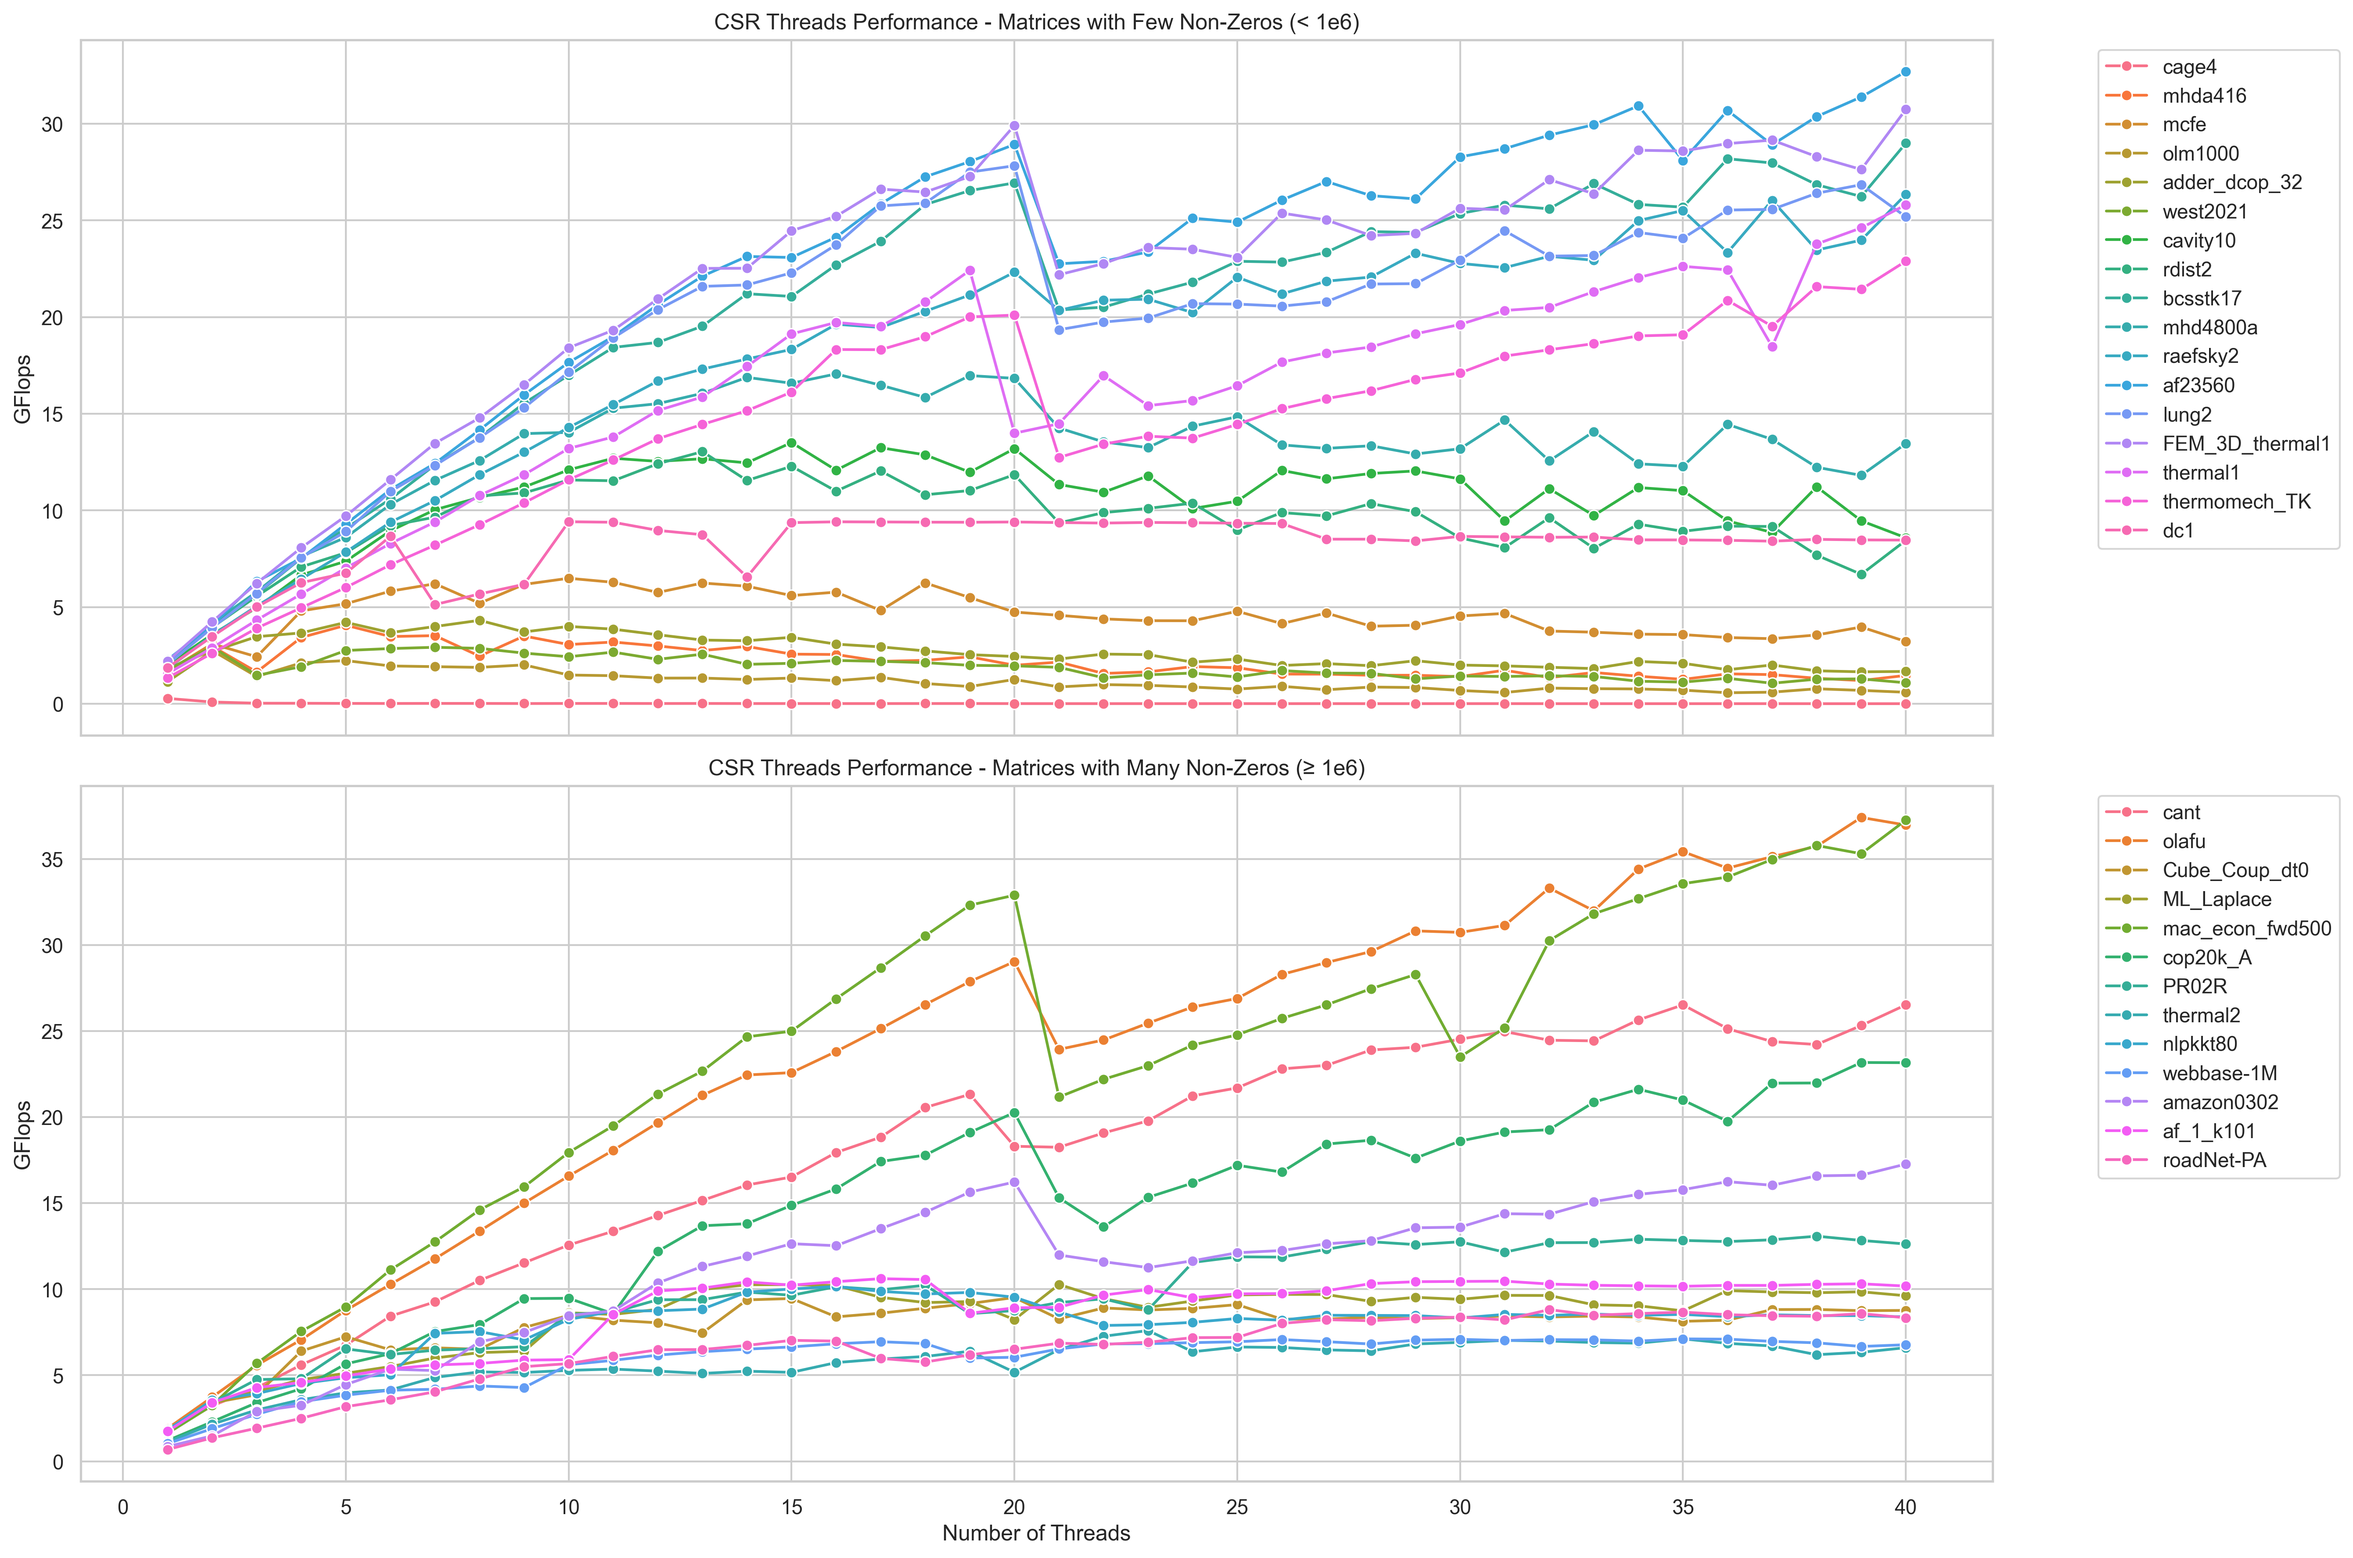
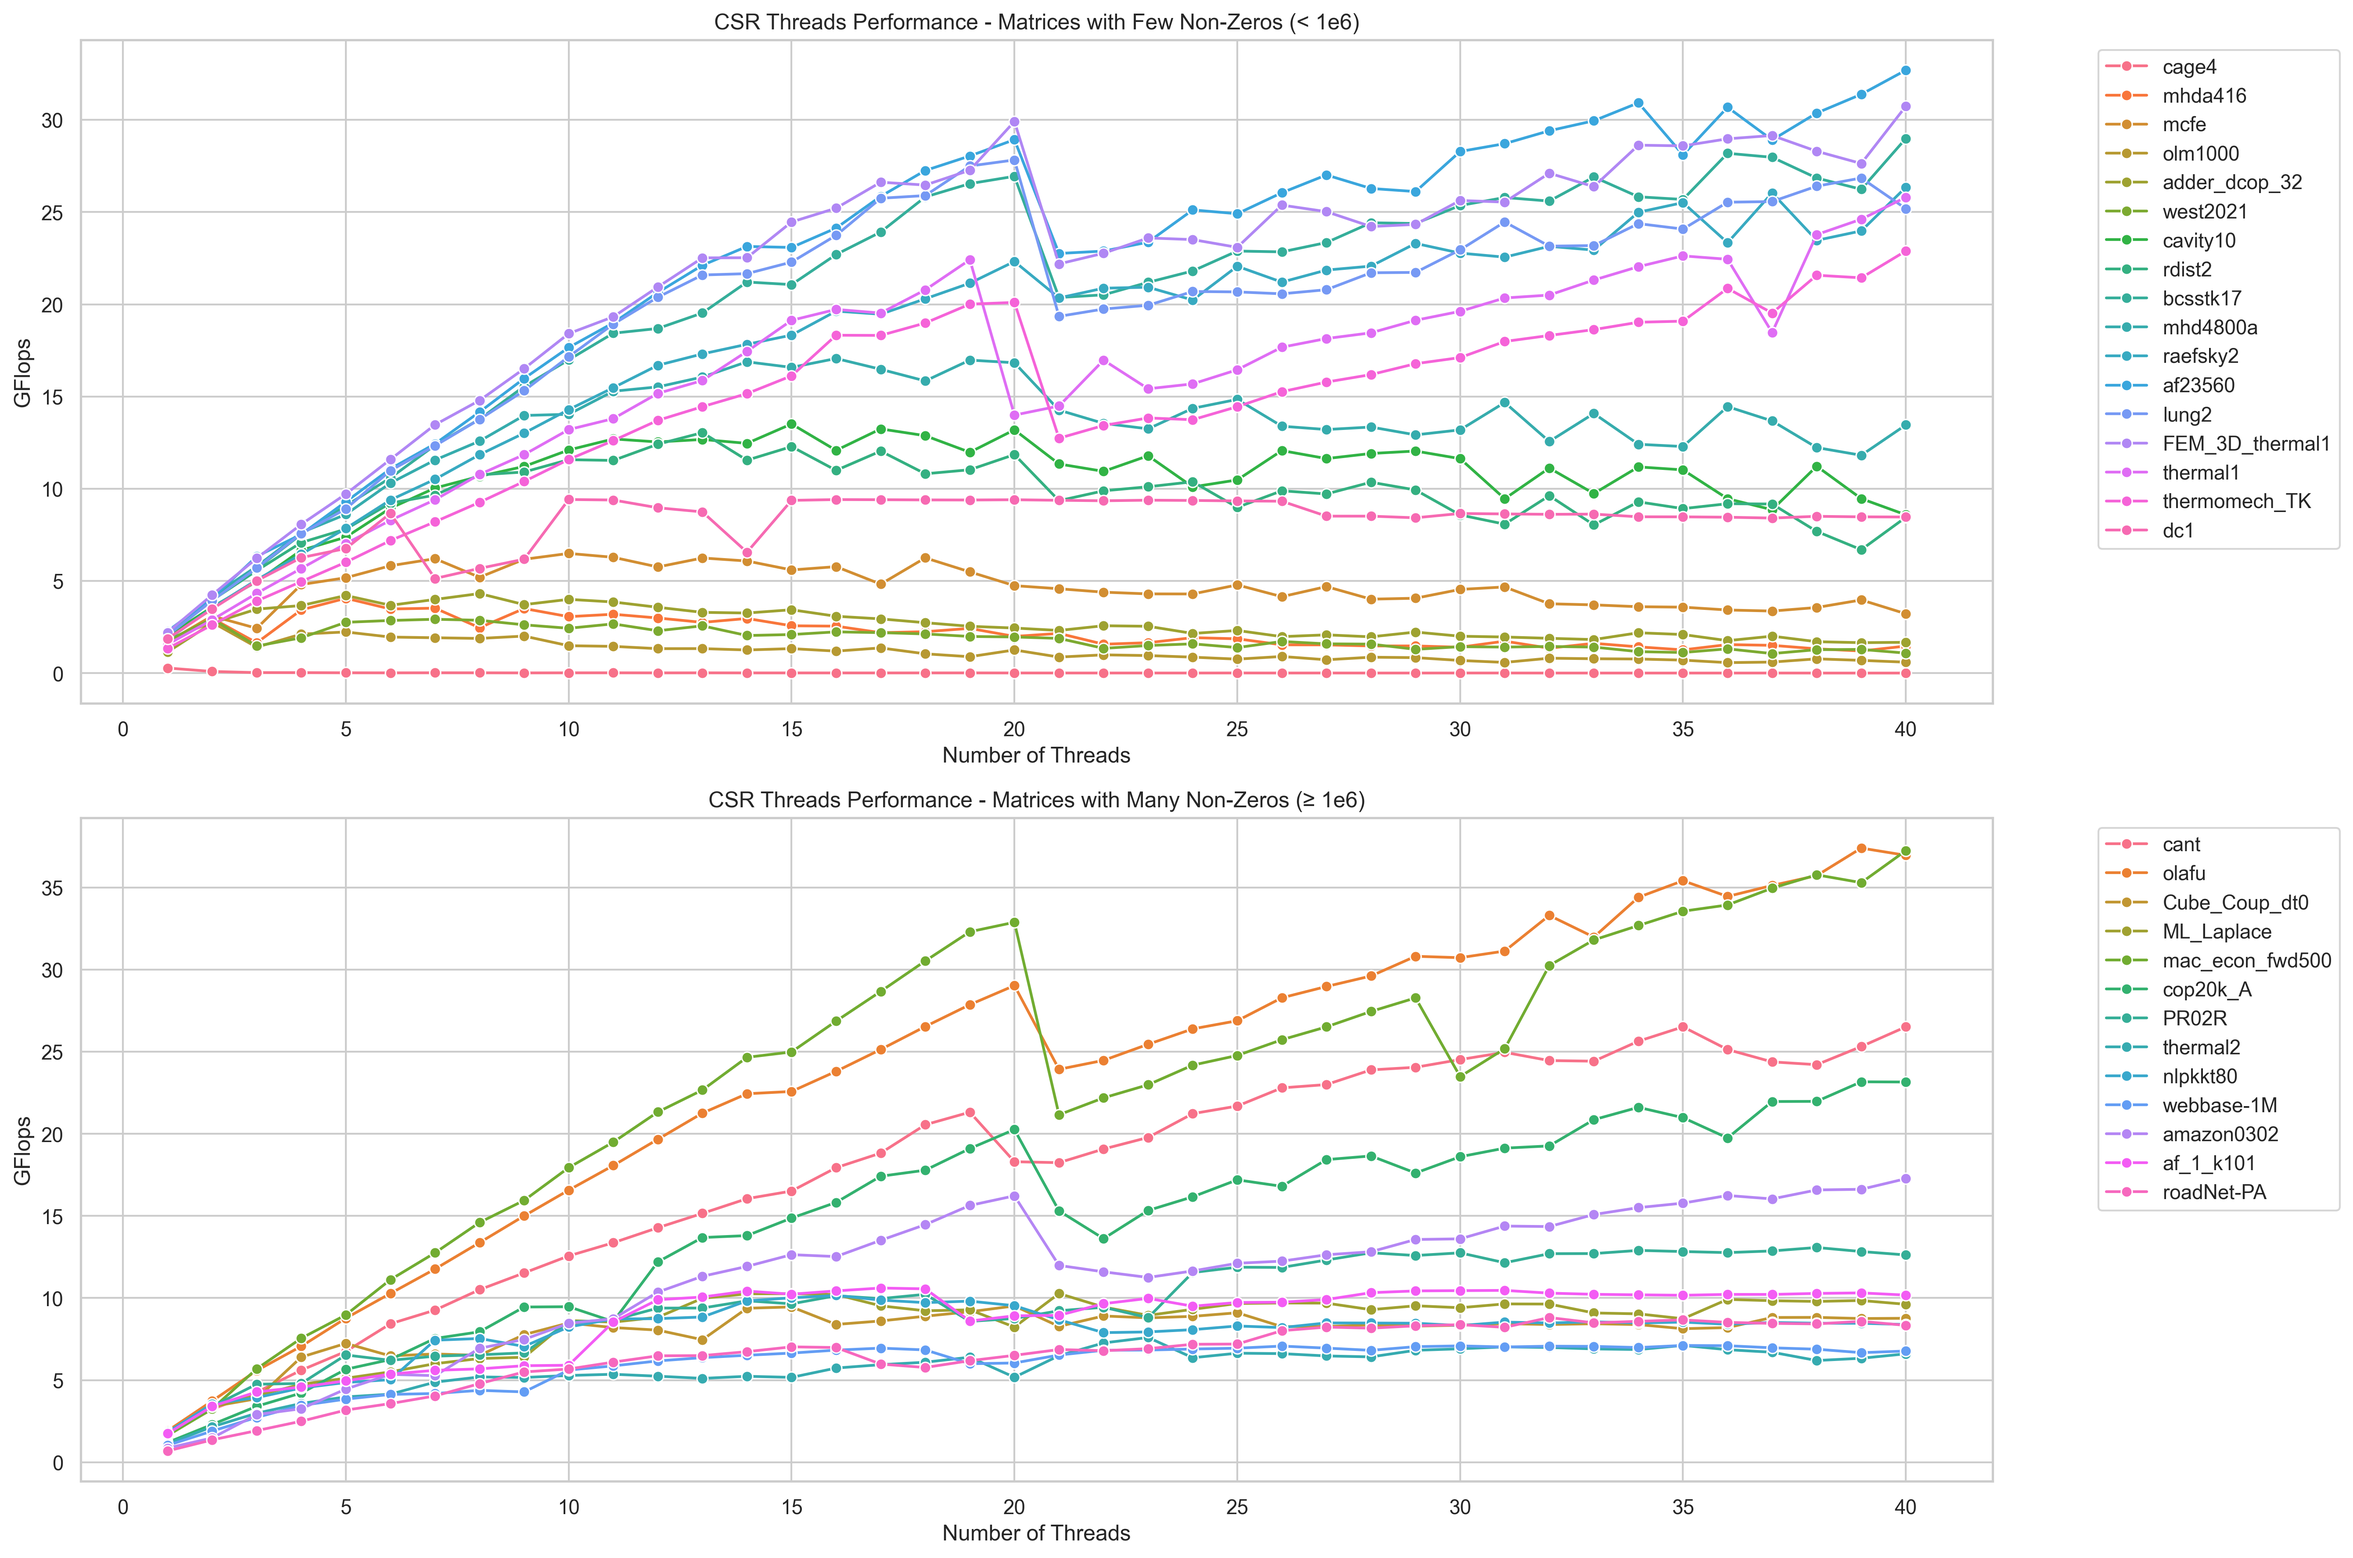
modifica asse x grafici threads

diff --git a/results/openmp_threads_speedup.py b/results/openmp_threads_speedup.py
@@ -27,11 +27,12 @@ def plot_speedup(df_few, df_many, algo_type, save_path):
         return
 
     # Create the figure with two subplots
-    fig, axs = plt.subplots(2, 1, figsize=(18, 12), sharex=True)
+    fig, axs = plt.subplots(2, 1, figsize=(18, 12))
 
     # First subplot: matrices with few non-zeros
     sns.lineplot(data=df_few, x='nThreads', y=y_col, hue='matrix', marker='o', ax=axs[0])
     axs[0].set_title(f"{algo_type.upper()} Threads Speedup - Matrices with Few Non-Zeros (< 1e6)")
+    axs[0].set_xlabel("Number of Threads")
     axs[0].set_ylabel("Speedup")
     axs[0].legend(loc='upper left', bbox_to_anchor=(1.05, 1))
 

diff --git a/results/openmp_threads_gflops.py b/results/openmp_threads_gflops.py
@@ -26,7 +26,7 @@ def plot_performance(df_few, df_many, algo_type, save_path):
         return
 
     # Create the figure with two subplots (vertically stacked)
-    fig, axs = plt.subplots(2, 1, figsize=(18, 12), sharex=True)
+    fig, axs = plt.subplots(2, 1, figsize=(18, 12))
 
     # Top subplot: matrices with few non-zeros
     if not data_few.empty:
